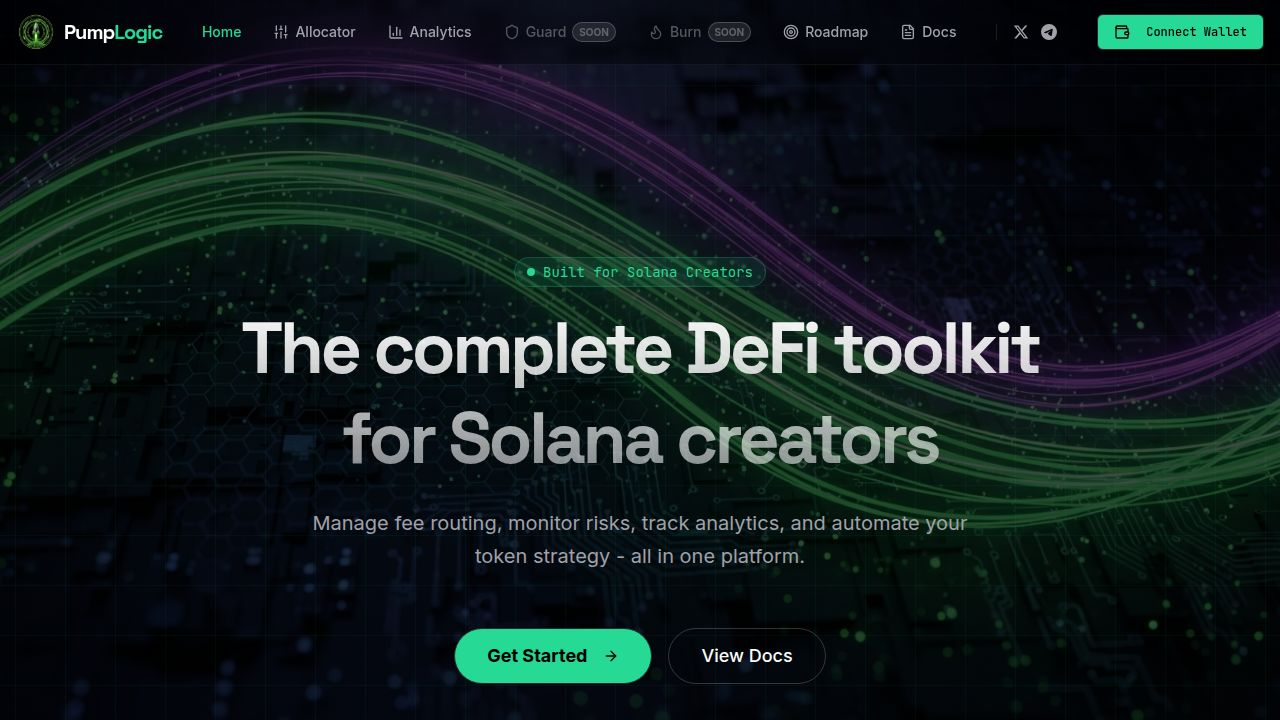
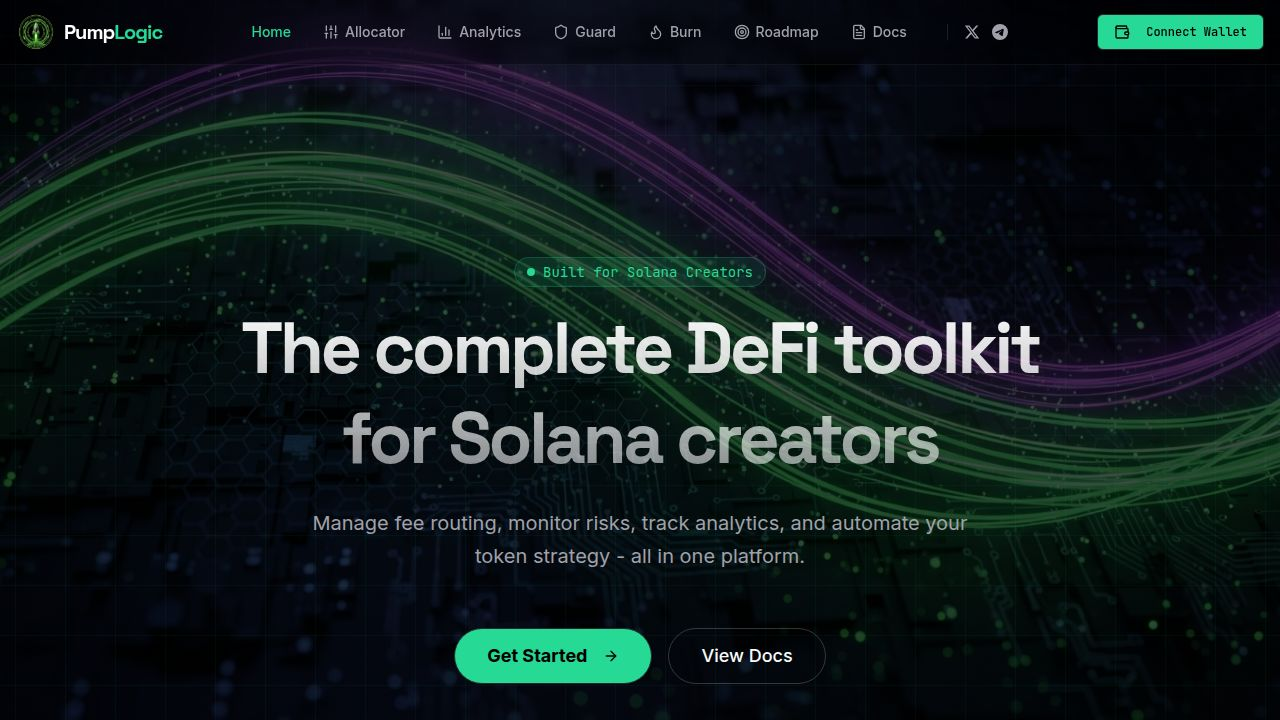
Make Guard and Burn features available to all users
Removes whitelist restrictions from the Guard and Burn features, making them accessible to all users. Updates the Navbar component to display these features universally and modifies the burn page to remove its specific whitelist check, ensuring broader access. Documentation in replit.md is also updated to reflect these changes.

Replit-Commit-Author: Agent
Replit-Commit-Session-Id: 2585299b-9637-488b-8496-783835317285
Replit-Commit-Checkpoint-Type: full_checkpoint
Replit-Commit-Event-Id: d3a14f6d-4673-4148-b9ff-91e97d177559
Replit-Commit-Screenshot-Url: https://storage.googleapis.com/screenshot-production-us-central1/2bad6cc9-0753-4a81-a241-f469247d4355/2585299b-9637-488b-8496-783835317285/MBiVb3f
Replit-Helium-Checkpoint-Created: true

Changed region(s): [[0.1562, 0.0306, 0.8438, 0.0611]]

diff --git a/client/src/components/layout/Navbar.tsx b/client/src/components/layout/Navbar.tsx
@@ -8,8 +8,6 @@ import { useToast } from "@/hooks/use-toast";
 import { useApiProvider } from "@/contexts/ApiProviderContext";
 import logoImage from "@assets/generated_images/pump_logic_logo.png";
 
-const GUARD_WHITELIST = ["9mRTLVQXjF2Fj9TkzUzmA7Jk22kAAq5Ssx4KykQQHxn8"];
-const BURN_WHITELIST = ["9mRTLVQXjF2Fj9TkzUzmA7Jk22kAAq5Ssx4KykQQHxn8"];
 const API_TOGGLE_WHITELIST = ["9mRTLVQXjF2Fj9TkzUzmA7Jk22kAAq5Ssx4KykQQHxn8"];
 
 export function Navbar() {
@@ -20,8 +18,6 @@ export function Navbar() {
   const { toast } = useToast();
   const { provider, toggleProvider } = useApiProvider();
   
-  const isGuardWhitelisted = user?.walletAddress && GUARD_WHITELIST.includes(user.walletAddress);
-  const isBurnWhitelisted = user?.walletAddress && BURN_WHITELIST.includes(user.walletAddress);
   const canToggleApi = user?.walletAddress && API_TOGGLE_WHITELIST.includes(user.walletAddress);
 
   const toggleMenu = () => setIsOpen(!isOpen);
@@ -98,38 +94,20 @@ export function Navbar() {
             <BarChart3 className="h-4 w-4" />
             Analytics
           </Link>
-          {isGuardWhitelisted ? (
-            <Link 
-              href="/guard" 
-              className={cn("text-sm font-medium transition-colors hover:text-primary flex items-center gap-1.5", location === "/guard" ? "text-primary" : "text-muted-foreground")}
-            >
-              <Shield className="h-4 w-4" />
-              Guard
-              <span className="px-1.5 py-0.5 text-[10px] font-bold bg-primary/20 border border-primary/50 rounded-full text-primary">BETA</span>
-            </Link>
-          ) : (
-            <div className="flex items-center gap-1.5 text-sm font-medium text-muted-foreground/50 cursor-not-allowed">
-              <Shield className="h-4 w-4" />
-              Guard
-              <span className="px-1.5 py-0.5 text-[10px] font-bold bg-white/10 border border-white/20 rounded-full">SOON</span>
-            </div>
-          )}
-          {isBurnWhitelisted ? (
-            <Link 
-              href="/burn" 
-              className={cn("text-sm font-medium transition-colors hover:text-primary flex items-center gap-1.5", location === "/burn" ? "text-primary" : "text-muted-foreground")}
-            >
-              <Flame className="h-4 w-4" />
-              Burn
-              <span className="px-1.5 py-0.5 text-[10px] font-bold bg-primary/20 border border-primary/50 rounded-full text-primary">BETA</span>
-            </Link>
-          ) : (
-            <div className="flex items-center gap-1.5 text-sm font-medium text-muted-foreground/50 cursor-not-allowed">
-              <Flame className="h-4 w-4" />
-              Burn
-              <span className="px-1.5 py-0.5 text-[10px] font-bold bg-white/10 border border-white/20 rounded-full">SOON</span>
-            </div>
-          )}
+          <Link 
+            href="/guard" 
+            className={cn("text-sm font-medium transition-colors hover:text-primary flex items-center gap-1.5", location === "/guard" ? "text-primary" : "text-muted-foreground")}
+          >
+            <Shield className="h-4 w-4" />
+            Guard
+          </Link>
+          <Link 
+            href="/burn" 
+            className={cn("text-sm font-medium transition-colors hover:text-primary flex items-center gap-1.5", location === "/burn" ? "text-primary" : "text-muted-foreground")}
+          >
+            <Flame className="h-4 w-4" />
+            Burn
+          </Link>
           <Link 
             href="/roadmap" 
             className={cn("text-sm font-medium transition-colors hover:text-primary flex items-center gap-1.5", location === "/roadmap" ? "text-primary" : "text-muted-foreground")}
@@ -228,32 +206,14 @@ export function Navbar() {
               <BarChart3 className="h-4 w-4" />
               Analytics
             </Link>
-            {isGuardWhitelisted ? (
-              <Link href="/guard" className="text-sm font-medium text-white hover:text-primary flex items-center gap-2" onClick={() => setIsOpen(false)}>
-                <Shield className="h-4 w-4" />
-                Guard
-                <span className="px-1.5 py-0.5 text-[10px] font-bold bg-primary/20 border border-primary/50 rounded-full text-primary">BETA</span>
-              </Link>
-            ) : (
-              <div className="flex items-center gap-2 text-sm font-medium text-muted-foreground/50">
-                <Shield className="h-4 w-4" />
-                Guard
-                <span className="px-1.5 py-0.5 text-[10px] font-bold bg-white/10 border border-white/20 rounded-full">SOON</span>
-              </div>
-            )}
-            {isBurnWhitelisted ? (
-              <Link href="/burn" className="text-sm font-medium text-white hover:text-primary flex items-center gap-2" onClick={() => setIsOpen(false)}>
-                <Flame className="h-4 w-4" />
-                Burn
-                <span className="px-1.5 py-0.5 text-[10px] font-bold bg-primary/20 border border-primary/50 rounded-full text-primary">BETA</span>
-              </Link>
-            ) : (
-              <div className="flex items-center gap-2 text-sm font-medium text-muted-foreground/50">
-                <Flame className="h-4 w-4" />
-                Burn
-                <span className="px-1.5 py-0.5 text-[10px] font-bold bg-white/10 border border-white/20 rounded-full">SOON</span>
-              </div>
-            )}
+            <Link href="/guard" className="text-sm font-medium text-white hover:text-primary flex items-center gap-2" onClick={() => setIsOpen(false)}>
+              <Shield className="h-4 w-4" />
+              Guard
+            </Link>
+            <Link href="/burn" className="text-sm font-medium text-white hover:text-primary flex items-center gap-2" onClick={() => setIsOpen(false)}>
+              <Flame className="h-4 w-4" />
+              Burn
+            </Link>
             <Link href="/roadmap" className="text-sm font-medium text-white hover:text-primary flex items-center gap-2" onClick={() => setIsOpen(false)}>
               <Target className="h-4 w-4" />
               Roadmap

diff --git a/client/src/pages/burn.tsx b/client/src/pages/burn.tsx
@@ -28,7 +28,6 @@ import {
   TooltipTrigger,
 } from "@/components/ui/tooltip";
 
-const BURN_WHITELIST = ["9mRTLVQXjF2Fj9TkzUzmA7Jk22kAAq5Ssx4KykQQHxn8"];
 
 const SOLANA_RPC = "https://api.mainnet-beta.solana.com";
 const TOKEN_PROGRAM_ID = new PublicKey("TokenkegQfeZyiNwAJbNbGKPFXCWuBvf9Ss623VQ5DA");
@@ -93,7 +92,6 @@ export default function Burn() {
   const { toast } = useToast();
   const { user, isConnected, connect, fullWalletAddress, connectedWallet, availableWallets } = useWallet();
   
-  const isWhitelisted = user?.walletAddress && BURN_WHITELIST.includes(user.walletAddress);
   
   const [tokenAddress, setTokenAddress] = useState("");
   const [burnAmount, setBurnAmount] = useState("");
@@ -115,7 +113,7 @@ export default function Burn() {
   const [showConfirmDialog, setShowConfirmDialog] = useState(false);
   const [burnHistory, setBurnHistory] = useState<BurnRecord[]>([]);
 
-  const isPreviewMode = !isConnected || !isWhitelisted;
+  const isPreviewMode = !isConnected;
 
   const fetchTokenBalance = async () => {
     if (!tokenAddress || !fullWalletAddress) {

diff --git a/replit.md b/replit.md
@@ -89,20 +89,16 @@ Preferred communication style: Simple, everyday language.
 - **Rate Limits**: VoidScreener 60 req/min, DexScreener standard limits
 - **Note**: Whale alerts unavailable when using DexScreener (shows notice in Guard)
 
-### PumpLogic Guard (Beta)
-- **Location**: `/guard` route, restricted to whitelisted addresses only
-- **Whitelist**: Deployer address `9mRTLVQXjF2Fj9TkzUzmA7Jk22kAAq5Ssx4KykQQHxn8`
+### PumpLogic Guard
+- **Location**: `/guard` route, available to all users
 - **Features**:
   - Token Scanner: Analyze any Solana token for rug-pull risks using VoidScreener API
   - Whale Alerts: Real-time large transaction monitoring from VoidScreener (buy/sell/transfer with tx links)
   - Risk Alerts: Watchlist monitoring for tracked tokens
   - Tax Reports: Date range selection and CSV export for transaction history
 - **API Integration**: Uses VoidScreener API for token data and whale alerts
-- **Access Control**: Non-whitelisted users see "SOON" badge in navbar (non-clickable), whitelisted see "BETA" badge (clickable)
-
 ### Token Burn Feature
-- **Location**: `/burn` route, restricted to whitelisted addresses only
-- **Whitelist**: Deployer address `9mRTLVQXjF2Fj9TkzUzmA7Jk22kAAq5Ssx4KykQQHxn8`
+- **Location**: `/burn` route, available to all users
 - **Features**:
   - Manual token burning for any SPL token
   - Token metadata display: name, image, symbol, price, FDV, 24h price change
@@ -111,5 +107,4 @@ Preferred communication style: Simple, everyday language.
   - Two-step confirmation modal with burn summary before executing
   - In-session burn history tracking with Solscan transaction links
   - Enhanced UI with tooltips, animated transitions, two-column layout
-- **Access Control**: Non-whitelisted users see "SOON" badge in navbar (non-clickable), whitelisted see "BETA" badge (clickable)
 - **Implementation**: Uses native @solana/web3.js with manual SPL Token burn instruction (avoids Buffer polyfill issues)
